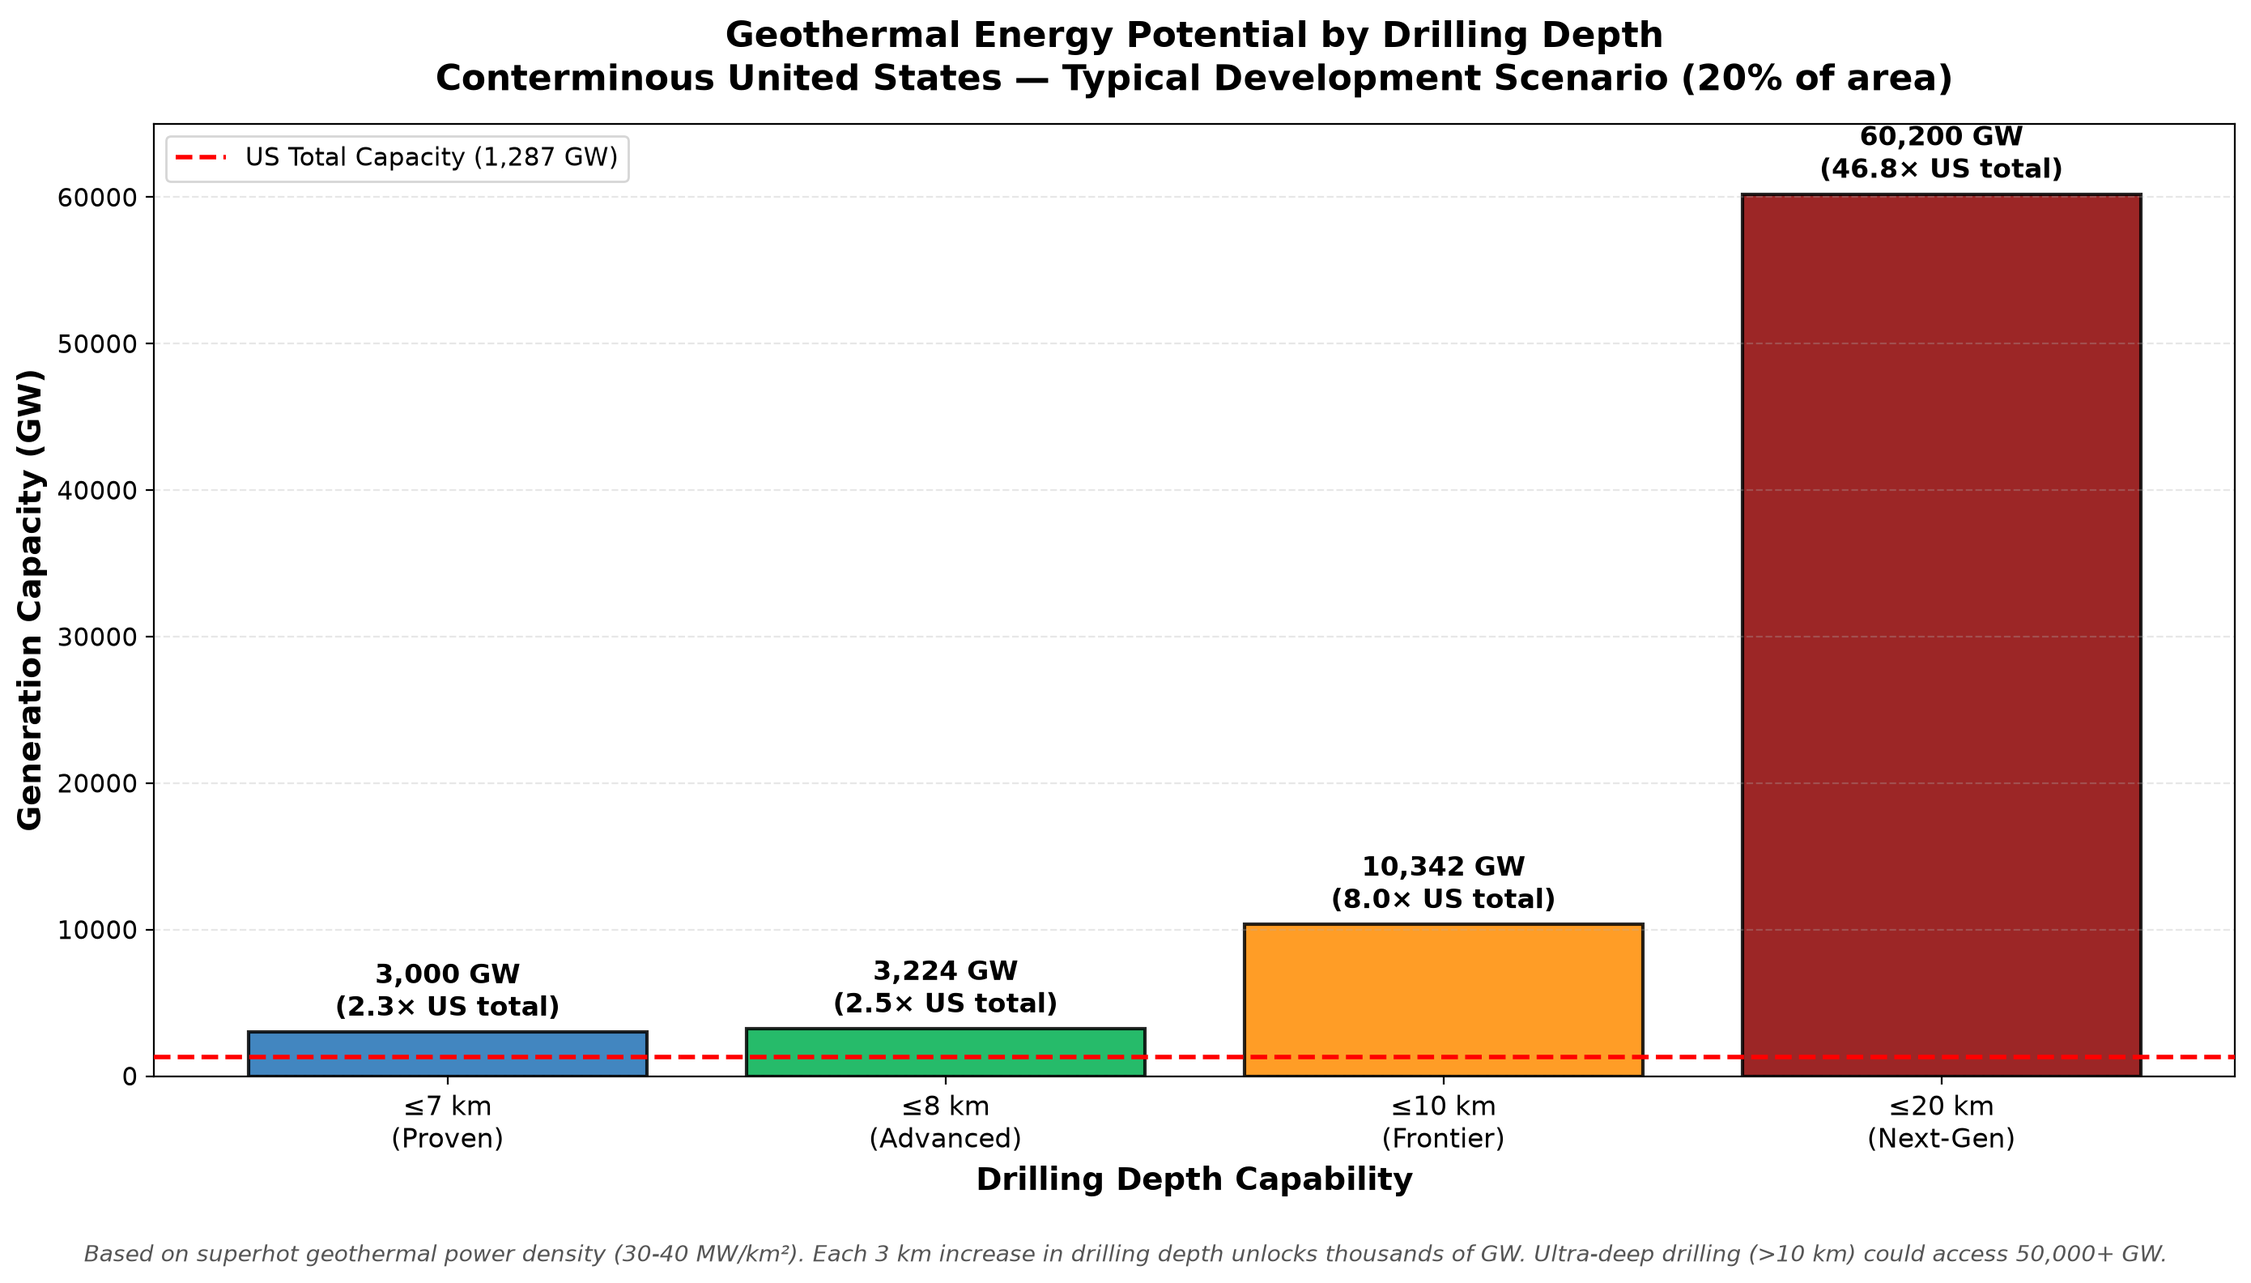
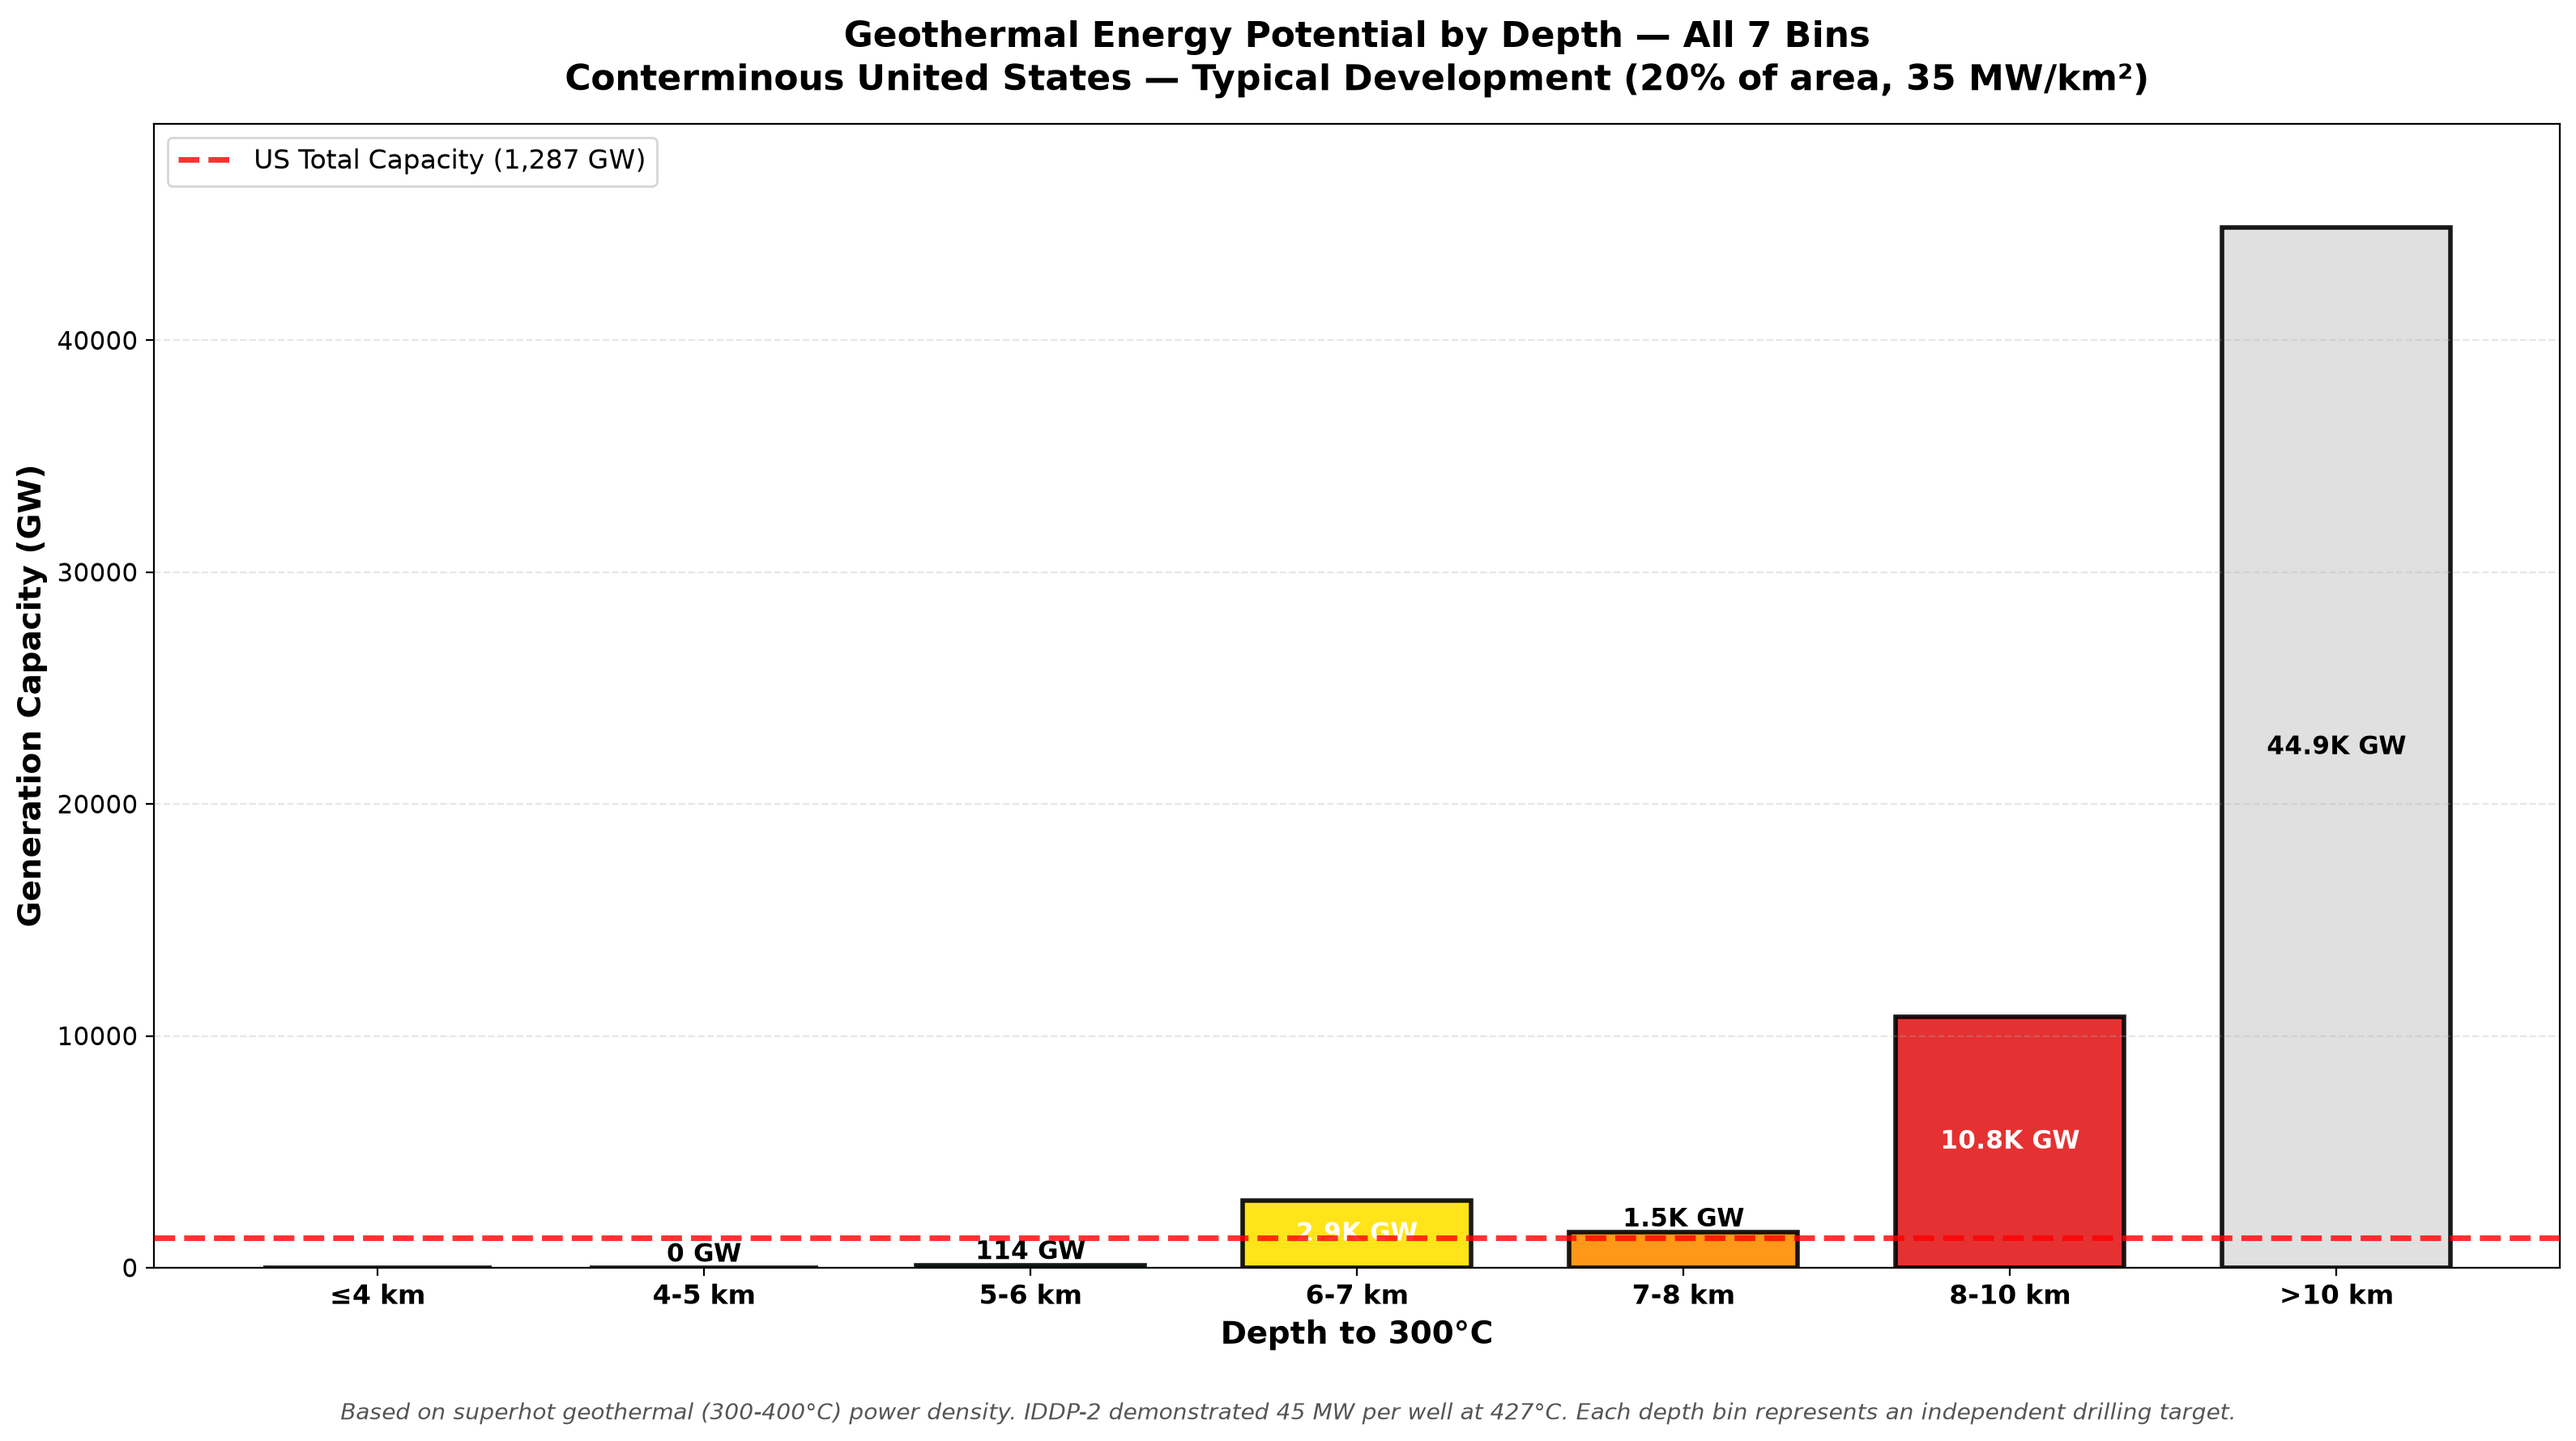
Update energy visualizations to use individual depth bins
Changes:
- Show all 7 individual bins instead of cumulative depths
- Updated data values (7-8 km: 1,521 GW, 8-10 km: 10,827 GW, >10 km: 44,851 GW)
- Bar chart shows capacity per bin with exact color scheme
- Pie chart shows distribution across all bins
- Removed ≤20 km extrapolation (no measured data beyond 10 km)
- All bins labeled with values directly on charts

Plots regenerated:
- energy_potential_by_drilling_depth.png
- energy_capacity_distribution.png

diff --git a/create_energy_visualizations.py b/create_energy_visualizations.py
@@ -24,74 +24,89 @@ COLORS = {
     ">10 km": "#DDDDDD"
 }
 
-# Data from energy analysis
+# Data from energy analysis (updated Sep 15 2026)
+BINS = ["≤4 km", "4-5 km", "5-6 km", "6-7 km", "7-8 km", "8-10 km", ">10 km"]
+
 CAPACITY_BY_DEPTH = {
+    "≤4 km": 0,
     "4-5 km": 0.3,      # GW
     "5-6 km": 114,
     "6-7 km": 2886,
-    "7-8 km": 224,
-    "8-10 km": 7118,
-    ">10 km": 49858     # Beyond current frontier but not impossible!
+    "7-8 km": 1521,
+    "8-10 km": 10827,
+    ">10 km": 44851
 }
 
 AREA_BY_DEPTH = {
+    "≤4 km": 0,
     "4-5 km": 46,
     "5-6 km": 16285,
     "6-7 km": 412296,
-    "7-8 km": 32000,
-    "8-10 km": 1016841,
-    ">10 km": 7122540
+    "7-8 km": 217321,
+    "8-10 km": 1546782,
+    ">10 km": 6407277
 }
 
 def create_cumulative_capacity_chart():
-    """Bar chart showing cumulative capacity by drilling depth capability."""
-    fig, ax = plt.subplots(figsize=(14, 8))
+    """Bar chart showing capacity by individual depth bin - ALL 7 bins."""
+    fig, ax = plt.subplots(figsize=(16, 9))
 
-    # Drilling scenarios
-    scenarios = [
-        ("≤7 km\n(Proven)", ["4-5 km", "5-6 km", "6-7 km"], 3000),
-        ("≤8 km\n(Advanced)", ["4-5 km", "5-6 km", "6-7 km", "7-8 km"], 3224),
-        ("≤10 km\n(Frontier)", ["4-5 km", "5-6 km", "6-7 km", "7-8 km", "8-10 km"], 10342),
-        ("≤20 km\n(Next-Gen)", ["4-5 km", "5-6 km", "6-7 km", "7-8 km", "8-10 km", ">10 km"], 60200)
-    ]
-
-    x_pos = np.arange(len(scenarios))
-    capacities = [s[2] for s in scenarios]
-    labels = [s[0] for s in scenarios]
+    x_pos = np.arange(len(BINS))
+    capacities = [CAPACITY_BY_DEPTH[b] for b in BINS]
+    colors = [COLORS[b] for b in BINS]
 
     # Create bars
-    bars = ax.bar(x_pos, capacities, color=['#2171B5', '#00B050', '#FF8C00', '#8B0000'],
-                   edgecolor='black', linewidth=1.5, alpha=0.85)
+    bars = ax.bar(x_pos, capacities, color=colors,
+                   edgecolor='black', linewidth=2, alpha=0.9, width=0.7)
 
     # Add US total capacity reference line
     us_total = 1287
-    ax.axhline(y=us_total, color='red', linestyle='--', linewidth=2,
-               label='US Total Capacity (1,287 GW)', zorder=5)
+    ax.axhline(y=us_total, color='red', linestyle='--', linewidth=2.5,
+               label=f'US Total Capacity ({us_total:,} GW)', zorder=5, alpha=0.8)
 
     # Add capacity values on bars
-    for i, (bar, cap) in enumerate(zip(bars, capacities)):
+    for i, (bar, cap, bin_name) in enumerate(zip(bars, capacities, BINS)):
         height = bar.get_height()
-        multiplier = cap / us_total
-        ax.text(bar.get_x() + bar.get_width()/2., height + 500,
-                f'{cap:,.0f} GW\n({multiplier:.1f}× US total)',
-                ha='center', va='bottom', fontsize=12, fontweight='bold')
+
+        if cap == 0:
+            continue
+
+        if height > us_total * 2:  # Tall bars - text inside
+            y_pos = height * 0.5
+            text_color = 'white' if bin_name != ">10 km" else 'black'
+            va = 'center'
+        else:  # Short bars - text above
+            y_pos = height
+            text_color = 'black'
+            va = 'bottom'
+
+        # Format capacity
+        if cap >= 1000:
+            cap_str = f'{cap/1000:.1f}K GW'
+        else:
+            cap_str = f'{cap:.0f} GW'
+
+        ax.text(bar.get_x() + bar.get_width()/2., y_pos,
+                cap_str,
+                ha='center', va=va, fontsize=11, fontweight='bold',
+                color=text_color)
 
     ax.set_ylabel('Generation Capacity (GW)', fontsize=14, fontweight='bold')
-    ax.set_xlabel('Drilling Depth Capability', fontsize=14, fontweight='bold')
-    ax.set_title('Geothermal Energy Potential by Drilling Depth\n'
-                 'Conterminous United States — Typical Development Scenario (20% of area)',
+    ax.set_xlabel('Depth to 300°C', fontsize=14, fontweight='bold')
+    ax.set_title('Geothermal Energy Potential by Depth — All 7 Bins\n'
+                 'Conterminous United States — Typical Development (20% of area, 35 MW/km²)',
                  fontsize=16, fontweight='bold', pad=15)
     ax.set_xticks(x_pos)
-    ax.set_xticklabels(labels, fontsize=12)
+    ax.set_xticklabels(BINS, fontsize=12, fontweight='bold')
     ax.tick_params(axis='y', labelsize=11)
-    ax.set_ylim(0, 65000)
-    ax.legend(fontsize=11, loc='upper left')
+    ax.set_ylim(0, max(capacities) * 1.1)
+    ax.legend(fontsize=12, loc='upper left')
     ax.grid(axis='y', alpha=0.3, linestyle='--')
 
     # Add note
     fig.text(0.5, 0.02,
-             'Based on superhot geothermal power density (30-40 MW/km²). Each 3 km increase in drilling '
-             'depth unlocks thousands of GW. Ultra-deep drilling (>10 km) could access 50,000+ GW.',
+             'Based on superhot geothermal (300-400°C) power density. IDDP-2 demonstrated 45 MW per well at 427°C. '
+             'Each depth bin represents an independent drilling target.',
              ha='center', fontsize=10, style='italic', color='#555', wrap=True)
 
     plt.tight_layout(rect=[0, 0.05, 1, 1])
@@ -103,54 +118,38 @@ def create_cumulative_capacity_chart():
 
 def create_stacked_capacity_chart():
     """Stacked bar showing capacity contribution by depth bin."""
-    fig, (ax1, ax2) = plt.subplots(1, 2, figsize=(18, 8))
+    fig, ax = plt.subplots(figsize=(12, 10))
 
-    # Left: Accessible with frontier drilling (≤10 km)
-    bins_accessible = ["4-5 km", "5-6 km", "6-7 km", "7-8 km", "8-10 km"]
-    caps_accessible = [CAPACITY_BY_DEPTH[b] for b in bins_accessible]
-    colors_accessible = [COLORS[b] for b in bins_accessible]
+    # All 7 bins (exclude ≤4 km since it's 0)
+    bins_show = ["4-5 km", "5-6 km", "6-7 km", "7-8 km", "8-10 km", ">10 km"]
+    caps = [CAPACITY_BY_DEPTH[b] for b in bins_show]
+    colors_show = [COLORS[b] for b in bins_show]
 
-    # Right: All depths including ultra-deep
-    bins_all = bins_accessible + [">10 km"]
-    caps_all = [CAPACITY_BY_DEPTH[b] for b in bins_all]
-    colors_all = [COLORS[b] for b in bins_all]
+    total_cap = sum(caps)
 
-    # Create pie charts
-    wedges1, texts1, autotexts1 = ax1.pie(caps_accessible, labels=bins_accessible,
-                                           colors=colors_accessible,
-                                           autopct=lambda pct: f'{pct:.1f}%' if pct > 2 else '',
-                                           startangle=90, textprops={'fontsize': 11})
+    # Create pie chart
+    wedges, texts, autotexts = ax.pie(caps, labels=bins_show,
+                                       colors=colors_show,
+                                       autopct=lambda pct: f'{pct:.1f}%' if pct > 1 else '',
+                                       startangle=90, textprops={'fontsize': 12, 'fontweight': 'bold'})
 
     # Make wedges have black borders
-    for w in wedges1:
+    for w in wedges:
         w.set_edgecolor('black')
-        w.set_linewidth(1.5)
+        w.set_linewidth(2)
 
-    ax1.set_title('Frontier Drilling (≤10 km)\n10,342 GW Total',
-                  fontsize=14, fontweight='bold', pad=10)
+    ax.set_title(f'Geothermal Capacity Distribution by Depth\nTotal: {total_cap:,.0f} GW',
+                  fontsize=16, fontweight='bold', pad=20)
 
-    wedges2, texts2, autotexts2 = ax2.pie(caps_all, labels=bins_all,
-                                           colors=colors_all,
-                                           autopct=lambda pct: f'{pct:.1f}%' if pct > 1 else '',
-                                           startangle=90, textprops={'fontsize': 11})
-
-    for w in wedges2:
-        w.set_edgecolor('black')
-        w.set_linewidth(1.5)
-
-    ax2.set_title('Next-Generation Drilling (≤20 km)\n60,200 GW Total',
-                  fontsize=14, fontweight='bold', pad=10)
-
-    fig.suptitle('Geothermal Capacity Distribution by Depth\n'
-                 'Conterminous United States',
-                 fontsize=16, fontweight='bold', y=0.98)
+    fig.suptitle('Conterminous United States — All Depth Bins',
+                 fontsize=14, y=0.98)
 
     fig.text(0.5, 0.02,
-             'Ultra-deep drilling (>10 km) accesses 50,000+ GW of additional capacity. '
-             'Each depth increment unlocks superhot to supercritical resources (300-450°C).',
+             f'>10 km resources represent 74.5% of CONUS area. '
+             f'Superhot to supercritical resources (300-400°C) at all depths. US Total Capacity: 1,287 GW.',
              ha='center', fontsize=10, style='italic', color='#555')
 
-    plt.tight_layout(rect=[0, 0.05, 1, 0.95])
+    plt.tight_layout(rect=[0, 0.04, 1, 0.96])
     out = PLOT_DIR / "energy_capacity_distribution.png"
     plt.savefig(out, dpi=200, bbox_inches='tight', facecolor='white')
     plt.close()
